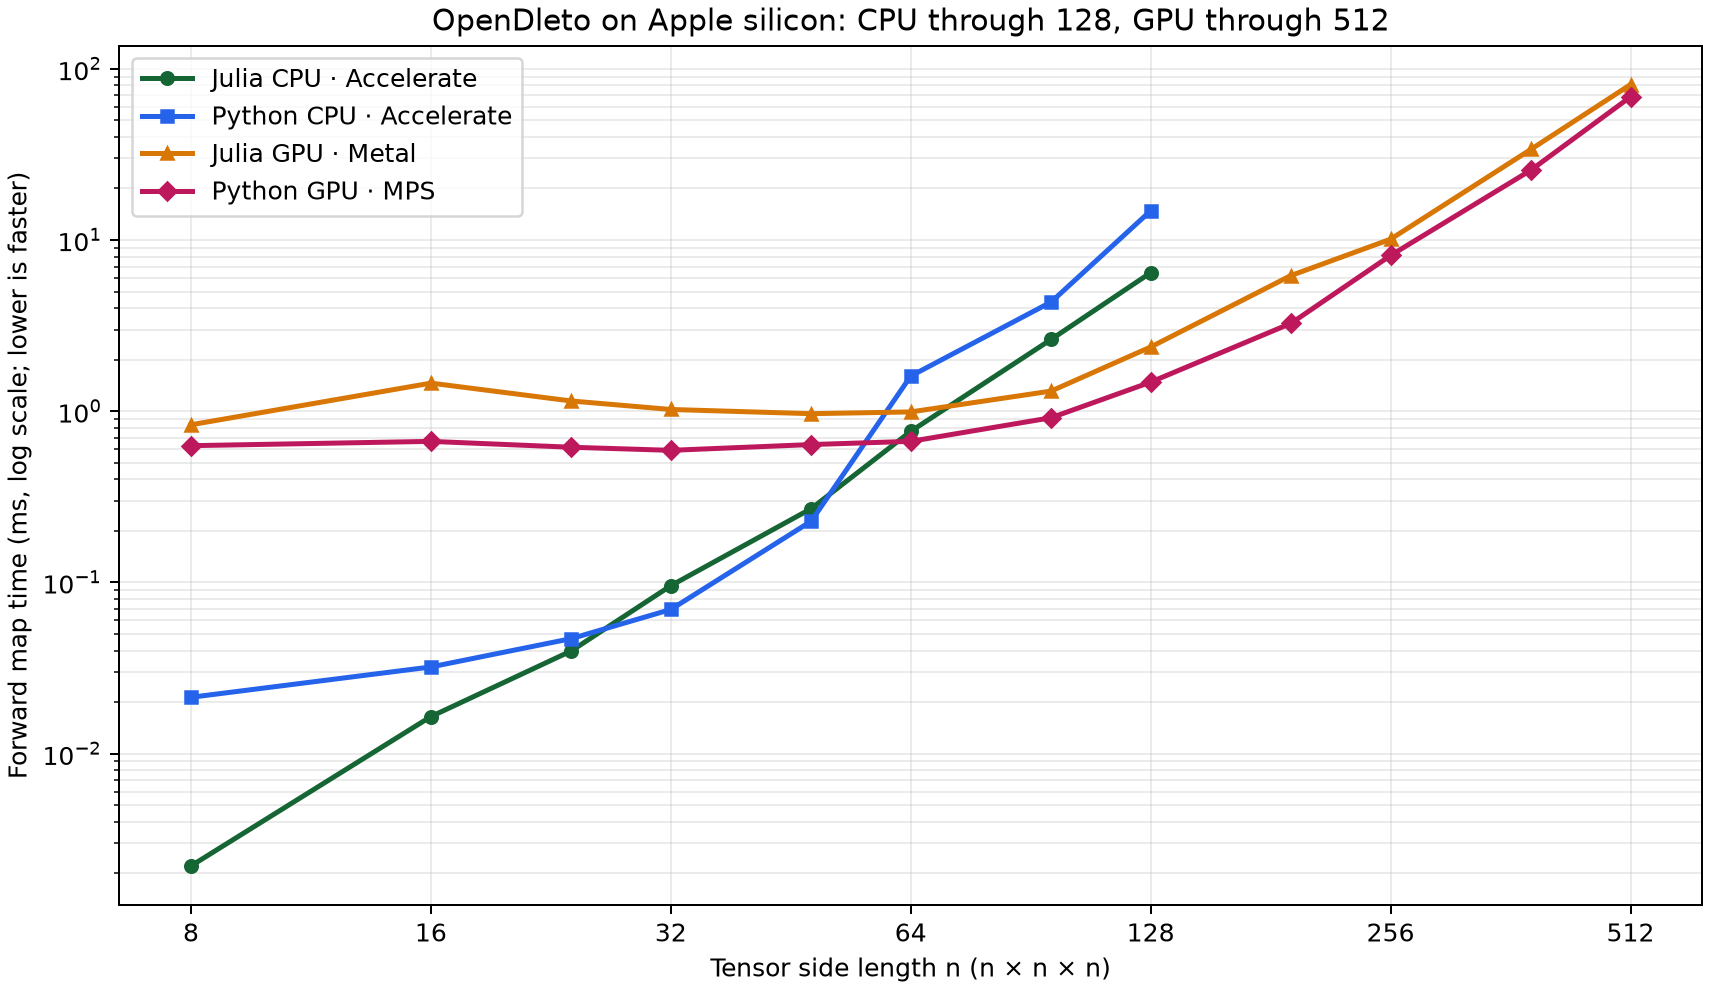
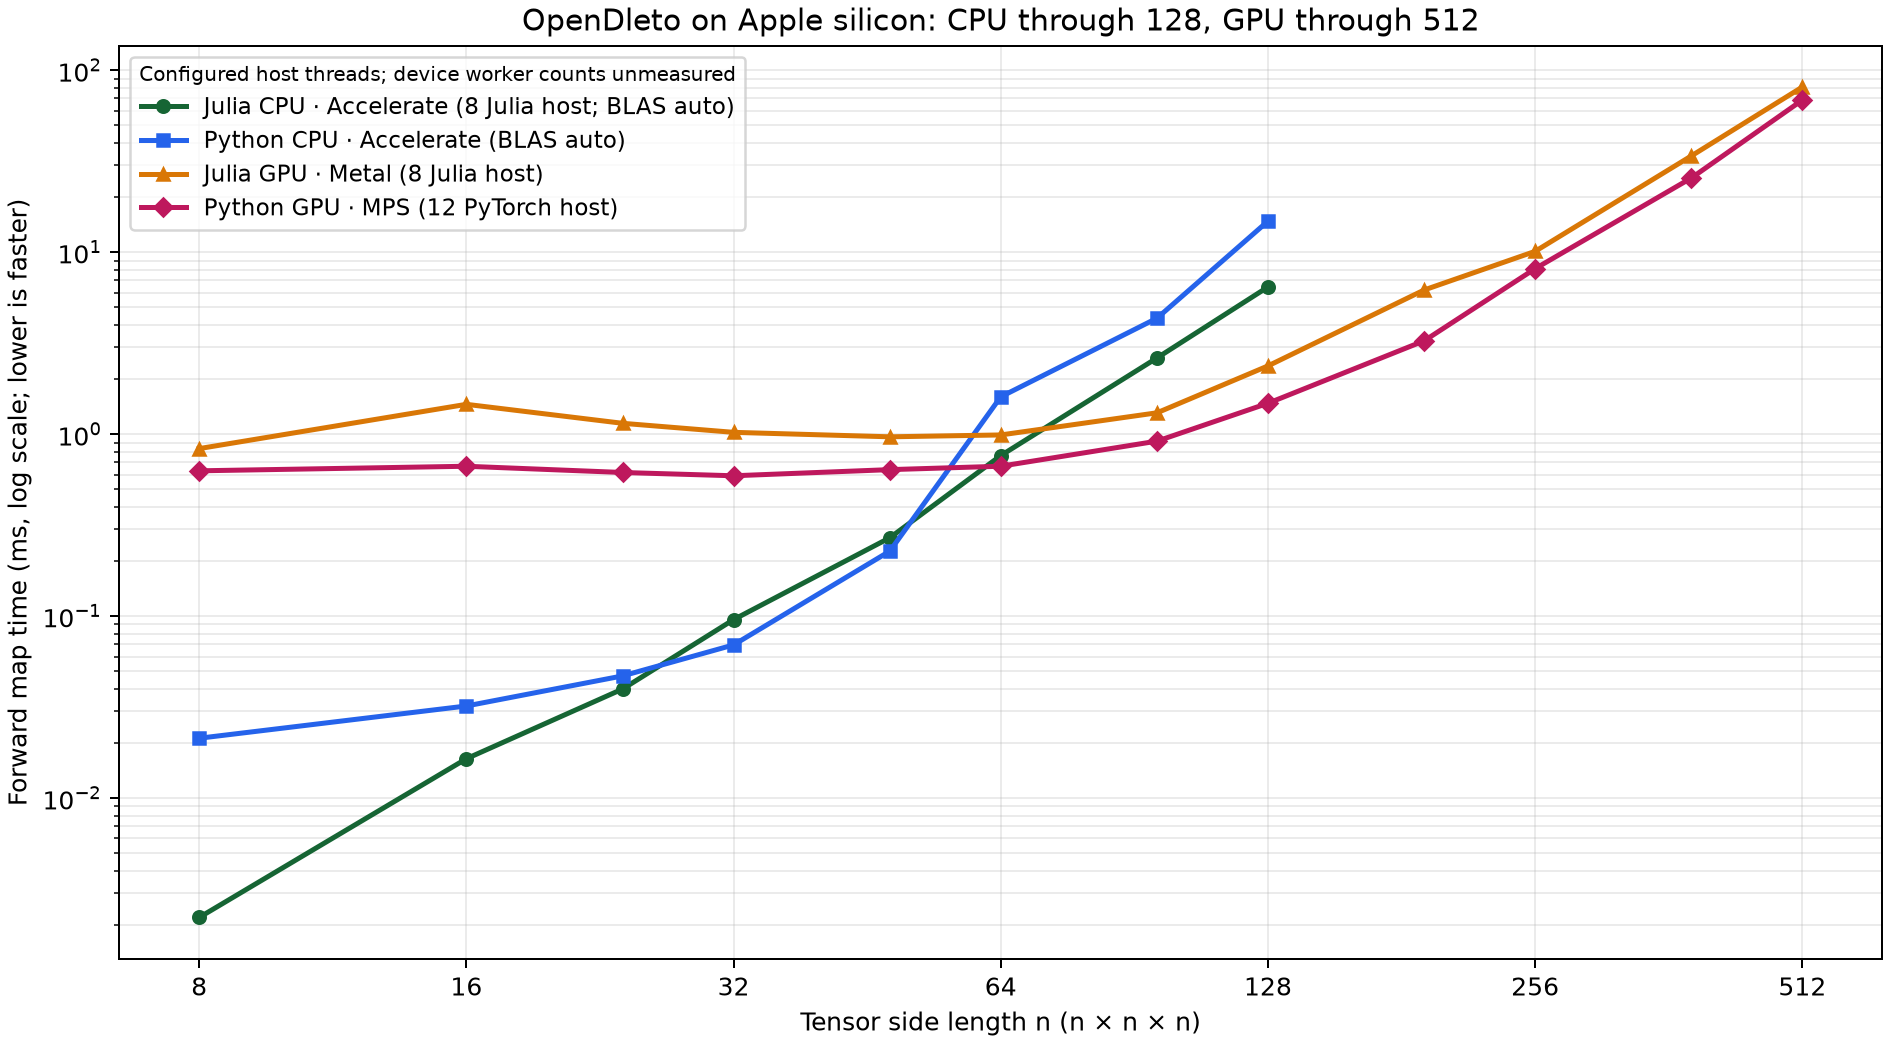
Label thread settings on Apple benchmark graph

diff --git a/bench/python_vs_julia/plot_apple_growth.py b/bench/python_vs_julia/plot_apple_growth.py
@@ -29,9 +29,13 @@ def main(folder: Path) -> None:
             cpu[int(values["n"])] = values
     sizes = sorted(int(path.stem.split("_")[1]) for path in folder.glob("accel_*.json"))
     rows = []
+    gpu_julia_threads = set()
+    python_torch_threads = set()
     for n in sizes:
         py = json.loads((folder / f"accel_{n}.json").read_text())
         jl_gpu = julia_result(folder / f"metal_{n}.log")
+        gpu_julia_threads.add(int(jl_gpu["julia_threads"]))
+        python_torch_threads.add(int(py["metadata"]["torch_threads"]))
         row = {
             "n": n,
             "julia_accelerate_cpu_forward_ms": 1000 * float(cpu[n]["forward_seconds"]) if n in cpu else "",
@@ -44,18 +48,29 @@ def main(folder: Path) -> None:
             "julia_accelerate_cpu_adjoint_ms": 1000 * float(cpu[n]["adjoint_seconds"]) if n in cpu else "",
         }
         rows.append(row)
+    cpu_julia_threads = {int(values["julia_threads"]) for values in cpu.values()}
+    if any(len(counts) != 1 for counts in
+           (cpu_julia_threads, gpu_julia_threads, python_torch_threads)):
+        raise ValueError("Thread settings changed across benchmark checkpoints")
+    cpu_julia_threads = cpu_julia_threads.pop()
+    gpu_julia_threads = gpu_julia_threads.pop()
+    python_torch_threads = python_torch_threads.pop()
     csv_path = output / "apple-results-2026-11-18.csv"
     with csv_path.open("w", newline="") as file:
         writer = csv.DictWriter(file, fieldnames=rows[0].keys(), lineterminator="\n")
         writer.writeheader()
         writer.writerows(rows)
 
-    fig, ax = plt.subplots(figsize=(9.5, 5.5), layout="constrained")
+    fig, ax = plt.subplots(figsize=(10.5, 5.8), layout="constrained")
     series = [
-        ("Julia CPU · Accelerate", "julia_accelerate_cpu_forward_ms", "#166534", "o"),
-        ("Python CPU · Accelerate", "python_accelerate_cpu_forward_ms", "#2563eb", "s"),
-        ("Julia GPU · Metal", "julia_metal_gpu_host_forward_ms", "#d97706", "^"),
-        ("Python GPU · MPS", "python_mps_gpu_host_forward_ms", "#be185d", "D"),
+        (f"Julia CPU · Accelerate ({cpu_julia_threads} Julia host; BLAS auto)",
+         "julia_accelerate_cpu_forward_ms", "#166534", "o"),
+        ("Python CPU · Accelerate (BLAS auto)",
+         "python_accelerate_cpu_forward_ms", "#2563eb", "s"),
+        (f"Julia GPU · Metal ({gpu_julia_threads} Julia host)",
+         "julia_metal_gpu_host_forward_ms", "#d97706", "^"),
+        (f"Python GPU · MPS ({python_torch_threads} PyTorch host)",
+         "python_mps_gpu_host_forward_ms", "#be185d", "D"),
     ]
     for label, column, color, marker in series:
         points = [(row["n"], row[column]) for row in rows if row[column] != ""]
@@ -69,7 +84,9 @@ def main(folder: Path) -> None:
     ax.set_ylabel("Forward map time (ms, log scale; lower is faster)")
     ax.set_title("OpenDleto on Apple silicon: CPU through 128, GPU through 512")
     ax.grid(True, which="both", alpha=0.25)
-    ax.legend(loc="upper left")
+    ax.legend(loc="upper left", fontsize=9,
+              title="Configured host threads; device worker counts unmeasured",
+              title_fontsize=8)
     fig.savefig(output / "apple-growth-2026-11-18.png", dpi=180)
     plt.close(fig)
     for row in rows:

diff --git a/bench/python_vs_julia/APPLE-ACCELERATE-2026-11-18.md b/bench/python_vs_julia/APPLE-ACCELERATE-2026-11-18.md
@@ -16,9 +16,11 @@ saved in the CSV; Python MPS currently has no GPU adjoint.
 Each Julia size runs in a fresh process. Packages were precompiled before the
 sweep, and five calls warm up each map before 11 calls are timed. The median is
 reported. The same warmup and repeat counts apply to Python. Both GPU paths
-synchronize each timed call. Julia used eight host threads, Python's PyTorch
-reported twelve, and no thread-limit environment variables were set. GPU kernels
-use their own device parallelism, which is distinct from host thread counts.
+synchronize each timed call. Julia was configured with eight host threads,
+Python's PyTorch reported twelve, and no thread-limit environment variables
+were set. The graph labels these host thread settings. The number of workers
+actually used by Accelerate and the GPU devices was not measured; device
+parallelism is distinct from host thread counts.
 
 The Julia GPU run used Metal.jl 1.11.1 in a temporary environment. The pinned
 Metal.jl 1.9.3 in this checkout failed to compile its permutation kernel on
@@ -31,7 +33,7 @@ The plot and table below show time for one forward-map application. Lower is
 faster. The CPU lines stop at `128³`; the GPU lines extend to `512³`. The
 vertical axis is logarithmic.
 
-![Line plot comparing Julia and Python forward-map times on Apple silicon. The Julia and Python CPU Accelerate lines end at tensor side length 128; the Julia Metal and Python MPS GPU lines continue through 512. Lower time is faster.](apple-growth-2026-11-18.png)
+![Line plot comparing Julia and Python forward-map times on Apple silicon. Legend labels show eight configured Julia host threads for the Julia CPU and GPU runs, twelve PyTorch host threads for Python MPS, and automatic, unmeasured Accelerate worker counts for both CPU runs. The CPU lines end at tensor side length 128; the GPU lines continue through 512. Lower time is faster.](apple-growth-2026-11-18.png)
 
 | Tensor | Julia CPU · Accelerate | Python CPU · Accelerate | Julia GPU · Metal | Python GPU · MPS |
 | --- | ---: | ---: | ---: | ---: |
